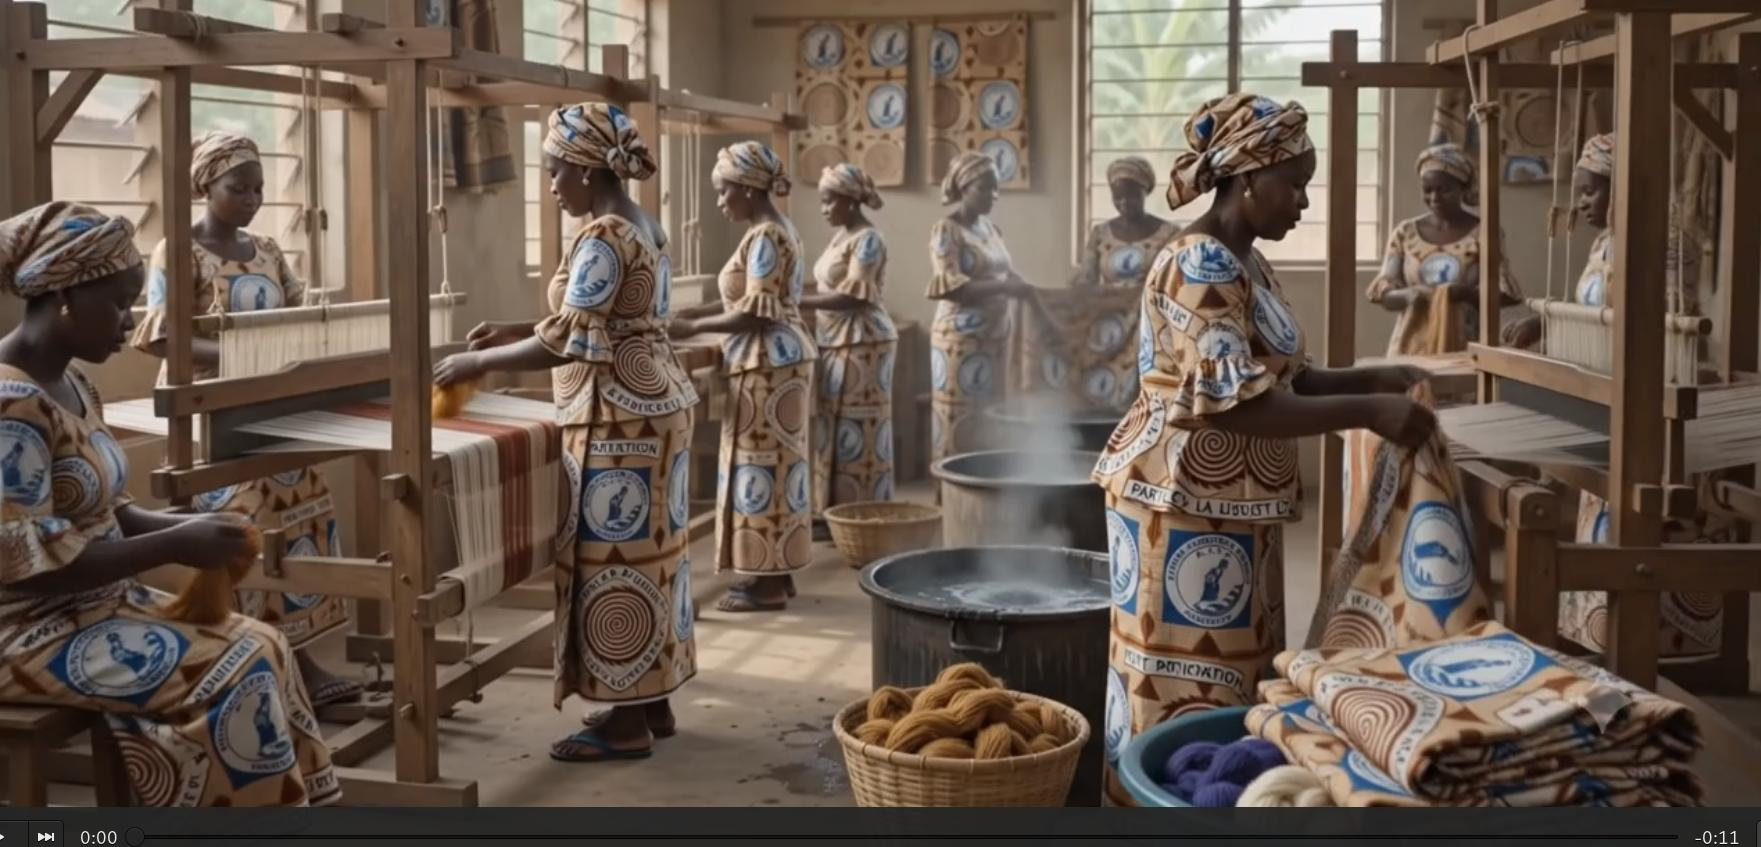
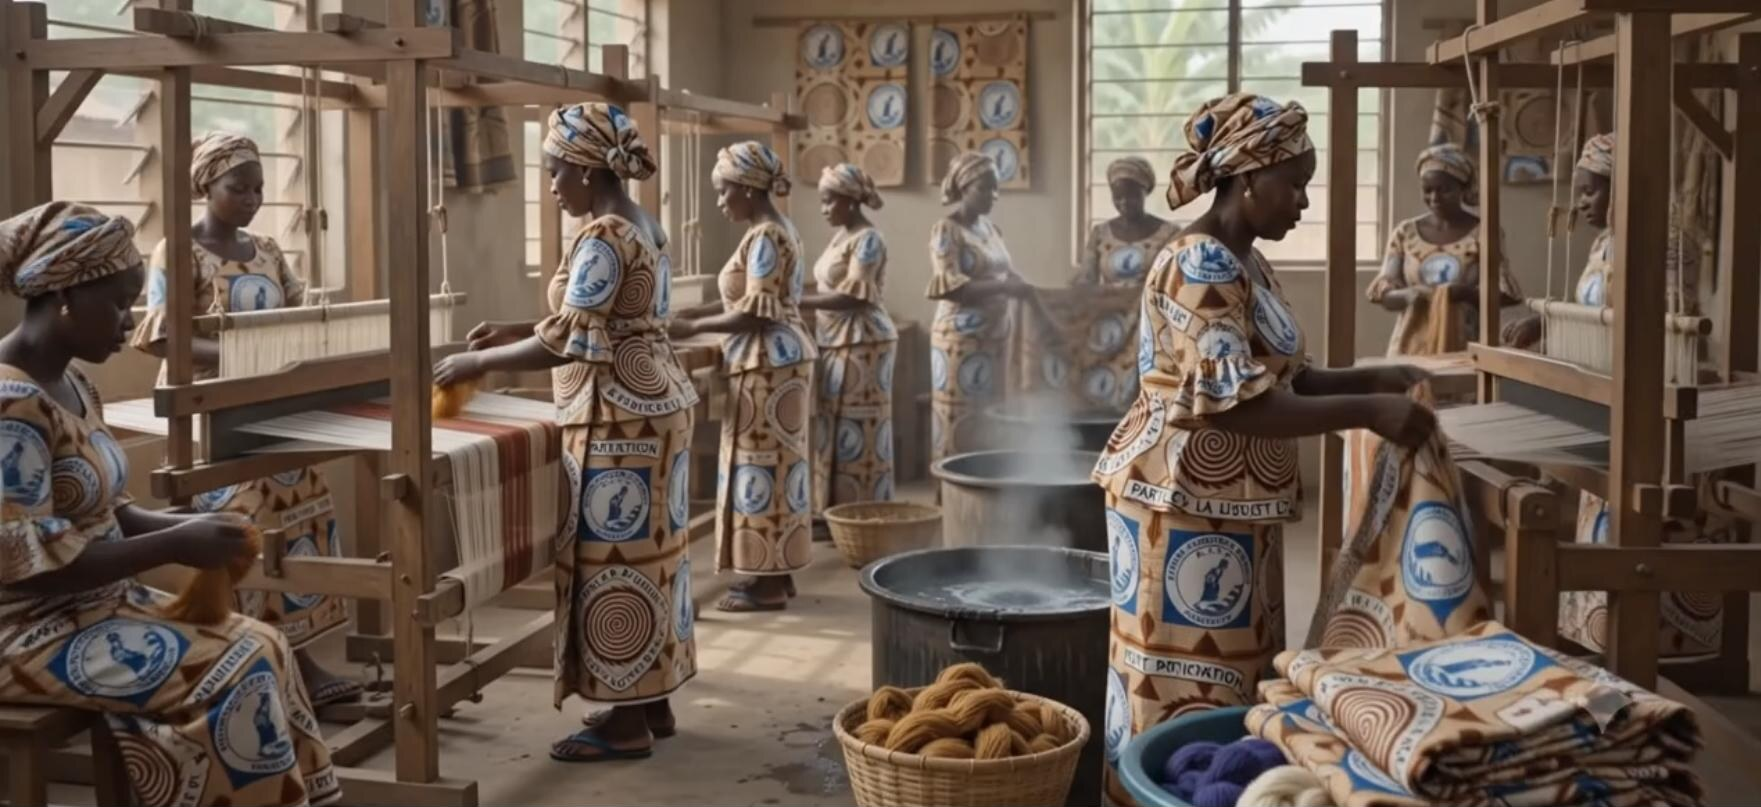
fix: textes des opportunités alignés sur les nouvelles images + script de sauvegarde
- Réécriture des 5 opportunités pour correspondre aux scènes réelles des images
  (tomates, gombo, marché, transformation, tissage)
- Rognage de la barre de lecture vidéo sur l'image de l'atelier de tissage
- Ajout de scripts/sauvegarde-retours.sh (à lancer avant chaque push)

diff --git a/src/data.ts b/src/data.ts
@@ -10,46 +10,46 @@ export { SEED_DONORS };
 export const SEED_OPPORTUNITIES: Opportunity[] = [
   {
     opp_id: "opp_001",
-    title: "Transformation du manioc en farine",
+    title: "Culture et récolte collective de tomates",
     sector: "Agriculture",
     location: "Région du Centre, Cameroun",
-    description: "Forte demande en farine de manioc dans les marchés urbains. Marge bénéficiaire élevée avec un équipement de transformation simple (vêtements et pagnes officiels de l'association AFEP-3.0).",
+    description: "Forte demande de tomates fraîches sur les marchés urbains. La récolte en groupe et la vente en cagettes augmentent les marges des cultivatrices du réseau AFEP-3.0.",
     image_url: cassavaImg,
     featured: true,
   },
   {
     opp_id: "opp_002",
-    title: "Production de savon artisanal à l'huile de palme",
-    sector: "Artisanat",
+    title: "Maraîchage : gombo et légumes verts",
+    sector: "Agriculture",
     location: "Province Orientale, RDC",
-    description: "Matières premières locales disponibles. Marché en croissance pour les produits naturels (animatrices formées en tenue de pagne officiel AFEP-3.0).",
+    description: "Le gombo se récolte presque toute l'année et se vend rapidement. Culture collective à cycle court, encadrée par les animatrices AFEP-3.0.",
     image_url: soapImg,
     featured: false,
   },
   {
     opp_id: "opp_003",
-    title: "Apiculture et vente de miel",
-    sector: "Agriculture",
+    title: "Vente groupée au marché",
+    sector: "Commerce",
     location: "Plateaux, Gabon",
-    description: "Investissement modeste, retour rapide. Le miel rural est très recherché en ville (groupements soutenus par AFEP-3.0).",
+    description: "Vendre ensemble au marché permet de négocier de meilleurs prix, de partager les frais de transport et de fidéliser la clientèle (étals tenus par les groupements AFEP-3.0).",
     image_url: welcomeImg,
     featured: false,
   },
   {
     opp_id: "opp_004",
-    title: "Élevage de poulets de chair",
-    sector: "Élevage",
+    title: "Transformation de la tomate : purée et séchage",
+    sector: "Transformation",
     location: "Brazzaville, Congo",
-    description: "Cycle court (45 jours), forte demande urbaine. Idéal pour démarrer avec un petit groupe (sous l'égide de l'association AFEP-3.0).",
-    image_url: welcomeImg,
+    description: "Transformer les surplus de récolte en purée ou en tomates séchées évite les pertes et permet de vendre toute l'année (sous l'égide de l'association AFEP-3.0).",
+    image_url: cassavaImg,
     featured: false,
   },
   {
     opp_id: "opp_005",
-    title: "Couture et confection de pagnes",
+    title: "Tissage et teinture de pagnes",
     sector: "Artisanat",
     location: "Bangui, RCA",
-    description: "Marché local stable. Confection des pagnes officiels de l'association AFEP-3.0 à motifs de spirales rouges et jaunes.",
+    description: "Marché local stable. Tissage sur métier et teinture des pagnes officiels de l'association AFEP-3.0 dans un atelier collectif.",
     image_url: coutureImg,
     featured: false,
   },